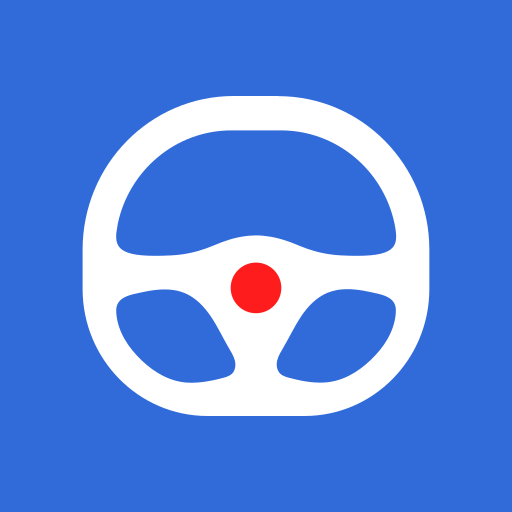
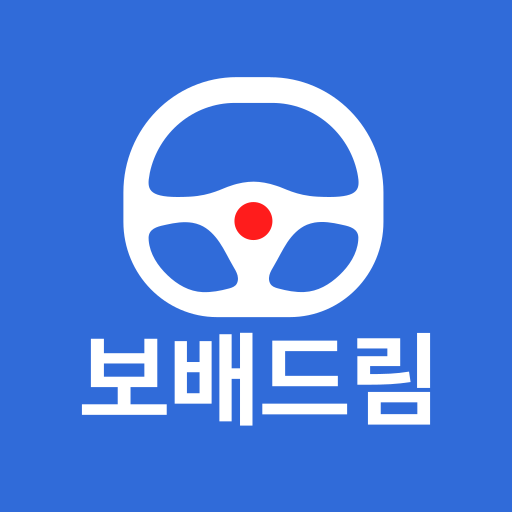
feat: Pretendard Bold로 보배드림 앱 아이콘 제작 (#831)
* feat: add Bobaedream wordmark to app launcher icons

* feat: use actual Pretendard Bold outlines for app logo

Changed region(s): [[0.1562, 0.125, 0.8438, 0.8438], [0.6875, 0.2188, 0.7188, 0.25], [0.2812, 0.2188, 0.3125, 0.25]]

diff --git a/public/app/index.html b/public/app/index.html
@@ -1,4 +1,4 @@
 <!doctype html>
-<html lang="ko"><head><meta charset="utf-8"><meta name="viewport" content="width=device-width,initial-scale=1,viewport-fit=cover"><meta name="theme-color" content="#fff"><title>보배드림 앱 설치</title><link rel="manifest" href="../manifest.webmanifest"><link rel="apple-touch-icon" href="./apple-touch-icon.png"><link rel="icon" href="./icon.svg">
+<html lang="ko"><head><meta charset="utf-8"><meta name="viewport" content="width=device-width,initial-scale=1,viewport-fit=cover"><meta name="theme-color" content="#fff"><title>보배드림 앱 설치</title><link rel="manifest" href="../manifest.webmanifest"><link rel="apple-touch-icon" href="./apple-touch-icon.png?v=2"><link rel="icon" href="./icon.svg?v=2">
 <style>*{box-sizing:border-box}body{margin:0;background:#f6f7f9;color:#222;font:16px/1.6 system-ui,-apple-system,sans-serif}main{max-width:440px;min-height:100dvh;margin:auto;padding:64px 24px 36px;display:flex;flex-direction:column;align-items:center;text-align:center}header img{width:112px;height:112px;border-radius:28px;box-shadow:0 8px 24px #1f4d991a}h1{font-size:28px;line-height:1.3;margin:24px 0 12px;letter-spacing:-1px}p{margin:0;color:#737373}.actions{width:100%;margin:36px 0 24px;display:grid;gap:12px}a,button{display:block;width:100%;padding:16px;border-radius:14px;text-decoration:none;font:600 16px/24px system-ui;cursor:pointer}button,a.primary{border:0;background:#306bd9;color:#fff}.secondary{background:#fff;border:1px solid #dedfe3;color:#222}.hint{font-size:14px;line-height:1.8;min-height:52px}footer{margin-top:auto;padding-top:48px;font-size:12px;color:#8c8c8c}details{text-align:left;width:100%;margin-top:24px;font-size:14px;color:#595959}summary{cursor:pointer}details p{margin:12px 0}button:focus-visible,a:focus-visible{outline:3px solid #17499e;outline-offset:3px}[hidden]{display:none!important}</style></head>
-<body><main><header><img src="./icon-192.png" alt="보배드림 현재 시안 로고"><h1>보배드림</h1><p>현재 시안을 앱으로 만나보세요.</p></header><div class="actions"><a class="primary" href="./bobaedream.apk" download="보배드림.apk">안드로이드 앱 다운로드</a><button id="install" hidden>홈 화면에 앱 설치</button><a class="secondary" href="../?source=app">보배드림 열기</a></div><p class="hint" id="hint" role="status"></p><details><summary>설치 안내</summary><p>안드로이드: 다운로드한 APK를 열어 설치하세요. 설치 허용을 요청하면 이 파일의 설치를 허용해 주세요.</p><p>설치 파일 없이 이용하려면 Chrome 메뉴의 ‘홈 화면에 추가’ 또는 ‘앱 설치’를 선택하세요.</p><p>아이폰: Safari의 공유 메뉴에서 ‘홈 화면에 추가’를 선택하세요.</p></details><footer>보배드림 시안 앱 · 인터넷 연결 필요</footer></main><script src="./install.js" defer></script></body></html>
+<body><main><header><img src="./icon-192.png?v=2" alt="보배드림 현재 시안 로고"><h1>보배드림</h1><p>현재 시안을 앱으로 만나보세요.</p></header><div class="actions"><a class="primary" href="./bobaedream.apk" download="보배드림.apk">안드로이드 앱 다운로드</a><button id="install" hidden>홈 화면에 앱 설치</button><a class="secondary" href="../?source=app">보배드림 열기</a></div><p class="hint" id="hint" role="status"></p><details><summary>설치 안내</summary><p>안드로이드: 다운로드한 APK를 열어 설치하세요. 설치 허용을 요청하면 이 파일의 설치를 허용해 주세요.</p><p>설치 파일 없이 이용하려면 Chrome 메뉴의 ‘홈 화면에 추가’ 또는 ‘앱 설치’를 선택하세요.</p><p>아이폰: Safari의 공유 메뉴에서 ‘홈 화면에 추가’를 선택하세요.</p></details><footer>보배드림 시안 앱 · 인터넷 연결 필요</footer></main><script src="./install.js" defer></script></body></html>

diff --git a/public/app/offline.html b/public/app/offline.html
@@ -1,4 +1,4 @@
 <!doctype html><html lang="ko"><meta charset="utf-8"><meta name="viewport" content="width=device-width,initial-scale=1"><title>보배드림</title>
 <style>body{margin:0;min-height:100dvh;display:grid;place-content:center;text-align:center;padding:24px;box-sizing:border-box;font:16px/1.6 system-ui;color:#222;background:#fff}img{width:88px;border-radius:22px;margin:auto}h1{font-size:24px;margin:24px 0 8px}p{color:#737373;margin:0 0 24px}button{border:0;border-radius:12px;padding:15px 24px;font:600 16px system-ui;background:#306bd9;color:#fff;cursor:pointer}</style>
 <img id="logo" alt="보배드림"><h1>인터넷 연결을 확인해 주세요</h1><p>연결되면 최신 매물을 볼 수 있습니다.</p><button onclick="location.reload()">다시 시도</button>
-<script>const worker=navigator.serviceWorker?.controller?.scriptURL;document.getElementById('logo').src=worker?new URL('app/icon-192.png',worker).href:new URL('./icon-192.png',location.href).href;</script></html>
+<script>const worker=navigator.serviceWorker?.controller?.scriptURL;document.getElementById('logo').src=worker?new URL('app/icon-192.png?v=2',worker).href:new URL('./icon-192.png?v=2',location.href).href;</script></html>

diff --git a/public/sw.js b/public/sw.js
@@ -1,10 +1,11 @@
 /* Network-first navigation: deployments and member pages never use stale HTML. */
-const CACHE = "bbm-app-shell-v1";
+const CACHE = "bbm-app-shell-v2";
 const base = new URL("./", self.location.href);
 const offline = new URL("app/offline.html", base).href;
+const icon = new URL("app/icon-192.png?v=2", base).href;
 self.addEventListener("install", (event) => {
   event.waitUntil(caches.open(CACHE).then((cache) => cache.addAll([
-    offline, new URL("app/icon-192.png", base).href,
+    offline, icon,
   ])).then(() => self.skipWaiting()));
 });
 self.addEventListener("activate", (event) => {
@@ -13,6 +14,10 @@ self.addEventListener("activate", (event) => {
     .map((key) => caches.delete(key)))).then(() => self.clients.claim()));
 });
 self.addEventListener("fetch", (event) => {
+  if (event.request.method === "GET" && event.request.url === icon) {
+    event.respondWith(caches.match(icon).then((cached) => cached || fetch(event.request)));
+    return;
+  }
   if (event.request.mode !== "navigate" || event.request.method !== "GET") return;
   const url = new URL(event.request.url);
   if (url.origin !== base.origin || !url.pathname.startsWith(base.pathname)) return;

diff --git a/index.html b/index.html
@@ -7,7 +7,7 @@
     <meta name="description" content="모바일 중고차 매물 검색과 필터링을 위한 인터랙티브 리스트" />
     <link rel="icon" type="image/svg+xml" href="/assets/bbm/favicon.svg" />
     <link rel="manifest" href="./manifest.webmanifest" />
-    <link rel="apple-touch-icon" href="./app/apple-touch-icon.png" />
+    <link rel="apple-touch-icon" href="./app/apple-touch-icon.png?v=2" />
     <meta name="apple-mobile-web-app-title" content="보배드림" />
     <meta name="apple-mobile-web-app-capable" content="yes" />
     <title>보배드림 중고차</title>

diff --git a/apps/android-prototype/build.py b/apps/android-prototype/build.py
@@ -38,20 +38,10 @@ def main():
     shutil.copytree(APP / "res", res)
     (res / "mipmap-mdpi").mkdir()
     shutil.copyfile(ROOT / "public/app/icon-192.png", res / "mipmap-mdpi/ic_launcher.png")
-    (res / "drawable").mkdir()
-    svg = ET.parse(ROOT / "public/assets/bbm/favicon.svg").getroot()
-    paths = []
-    for element in svg:
-        kind = element.tag.rsplit("}", 1)[-1]
-        if kind == "path":
-            paths.append((element.attrib["fill"], element.attrib["d"]))
-        elif kind == "circle":
-            cx, cy, radius = (float(element.attrib[key]) for key in ("cx", "cy", "r"))
-            paths.append((element.attrib["fill"], f"M{cx-radius},{cy}a{radius},{radius} 0 1,0 {2*radius},0a{radius},{radius} 0 1,0 {-2*radius},0"))
-    vector = '<vector xmlns:android="http://schemas.android.com/apk/res/android" android:width="108dp" android:height="108dp" android:viewportWidth="30" android:viewportHeight="30"><group android:pivotX="15" android:pivotY="15" android:scaleX="0.82" android:scaleY="0.82">'
-    for color, data in paths:
-        vector += f'<path android:fillColor="{color}" android:pathData="{data}"/>'
-    (res / "drawable/brand_mark.xml").write_text(vector + "</group></vector>", encoding="utf-8")
+    (res / "drawable-nodpi").mkdir()
+    # Prepared from icon-adaptive-foreground.svg: both the symbol and outlined
+    # wordmark sit inside Android's 66dp safe circle on a 108dp foreground.
+    shutil.copyfile(ROOT / "public/app/icon-adaptive-foreground.png", res / "drawable-nodpi/brand_mark.png")
     run(TOOLS / "aapt2.exe", "compile", "--dir", res, "-o", work / "resources.zip")
     run(TOOLS / "aapt2.exe", "link", "-o", work / "unsigned.apk", "-I", ANDROID,
         "--manifest", APP / "AndroidManifest.xml", "--java", work / "gen", work / "resources.zip")
@@ -93,7 +83,8 @@ def main():
         raise SystemExit("Unexpected APK application identity.")
     sha = hashlib.sha256(OUT.read_bytes()).hexdigest()
     OUT.with_suffix(".apk.sha256").write_text(f"{sha}  bobaedream.apk\n", encoding="utf-8")
-    metadata = {"name": "보배드림", "version": "1.0.0", "package": "io.github.bobaekimboae.bobaedream",
+    version = ET.parse(APP / "AndroidManifest.xml").getroot().attrib["{http://schemas.android.com/apk/res/android}versionName"]
+    metadata = {"name": "보배드림", "version": version, "package": "io.github.bobaekimboae.bobaedream",
                 "minAndroid": "8.0", "targetSdk": 35, "bytes": OUT.stat().st_size, "sha256": sha,
                 "startUrl": "https://bobaekimboae.github.io/bobaedream/?source=android-app",
                 "permissions": ["android.permission.INTERNET"], "deviceExecutionVerified": False}

diff --git a/docs/HANDOFF.md b/docs/HANDOFF.md
@@ -16,6 +16,8 @@
 ## 1. 작업 기준
 
 - 보배드림 설치 앱(2026-10-20): `/app/`에서 현재 파랑 심벌·빨간 점 로고와 `보배드림` 이름의 Android APK 및 설치형 웹앱을 제공한다. APK 소스는 `apps/android-prototype/`, 빌드는 `python apps/android-prototype/build.py`(JDK + Android SDK 36/Build Tools 36). 설치 파일·해시·메타데이터는 `public/app/`에 둔다. 앱 ID는 `io.github.bobaekimboae.bobaedream`으로 공식 앱과 분리하며, 실행 주소는 프로젝트 메인이다. APK는 기존 시안을 WebView로 여는 온라인 앱이며 인터넷 권한만 쓴다. 서명 키/암호는 사용자 로컬 `.codex/app-signing/`에만 있고 저장소에 넣지 않는다. 업데이트 때 키를 보존하고 Manifest의 버전 코드를 올린다. PWA는 프로젝트 범위에서만 동작하며 매물 HTML을 캐시하지 않는다. 검증은 `node --test tests/installable-app.test.mjs`, 전체 `npm run verify`, APK 서명/정렬/패키지 정보 검사다. 실기기 설치·실행은 별도 확인이 필요하다.
+- 앱 아이콘 텍스트(2026-10-20): 현재 심벌 아래에 **Pretendard Bold(700)** 실제 폰트에서 추출한 `보배드림` 글자 윤곽을 흰색으로 배치한다. 일반 아이콘·PWA 원형 마스크용·Android 적응형 전경을 각각 안전 영역에 맞춘다. Android 1.0.1(버전 코드 2)은 기존과 같은 키로 서명해 업데이트 설치한다. 웹 아이콘 URL과 오프라인 로고 캐시도 v2로 갱신한다.
+
 
 - 사용자 작업 방식(2026-10-18): 이 프로젝트의 수정 요청은 별도 배포 확인을 다시 묻지 않고, 검증 후 기존 GitHub Pages에 먼저 배포한 다음 결과를 보고한다.
 - 기본 작업 화면은 `?qf=guazi` 개발 시안형이다.
